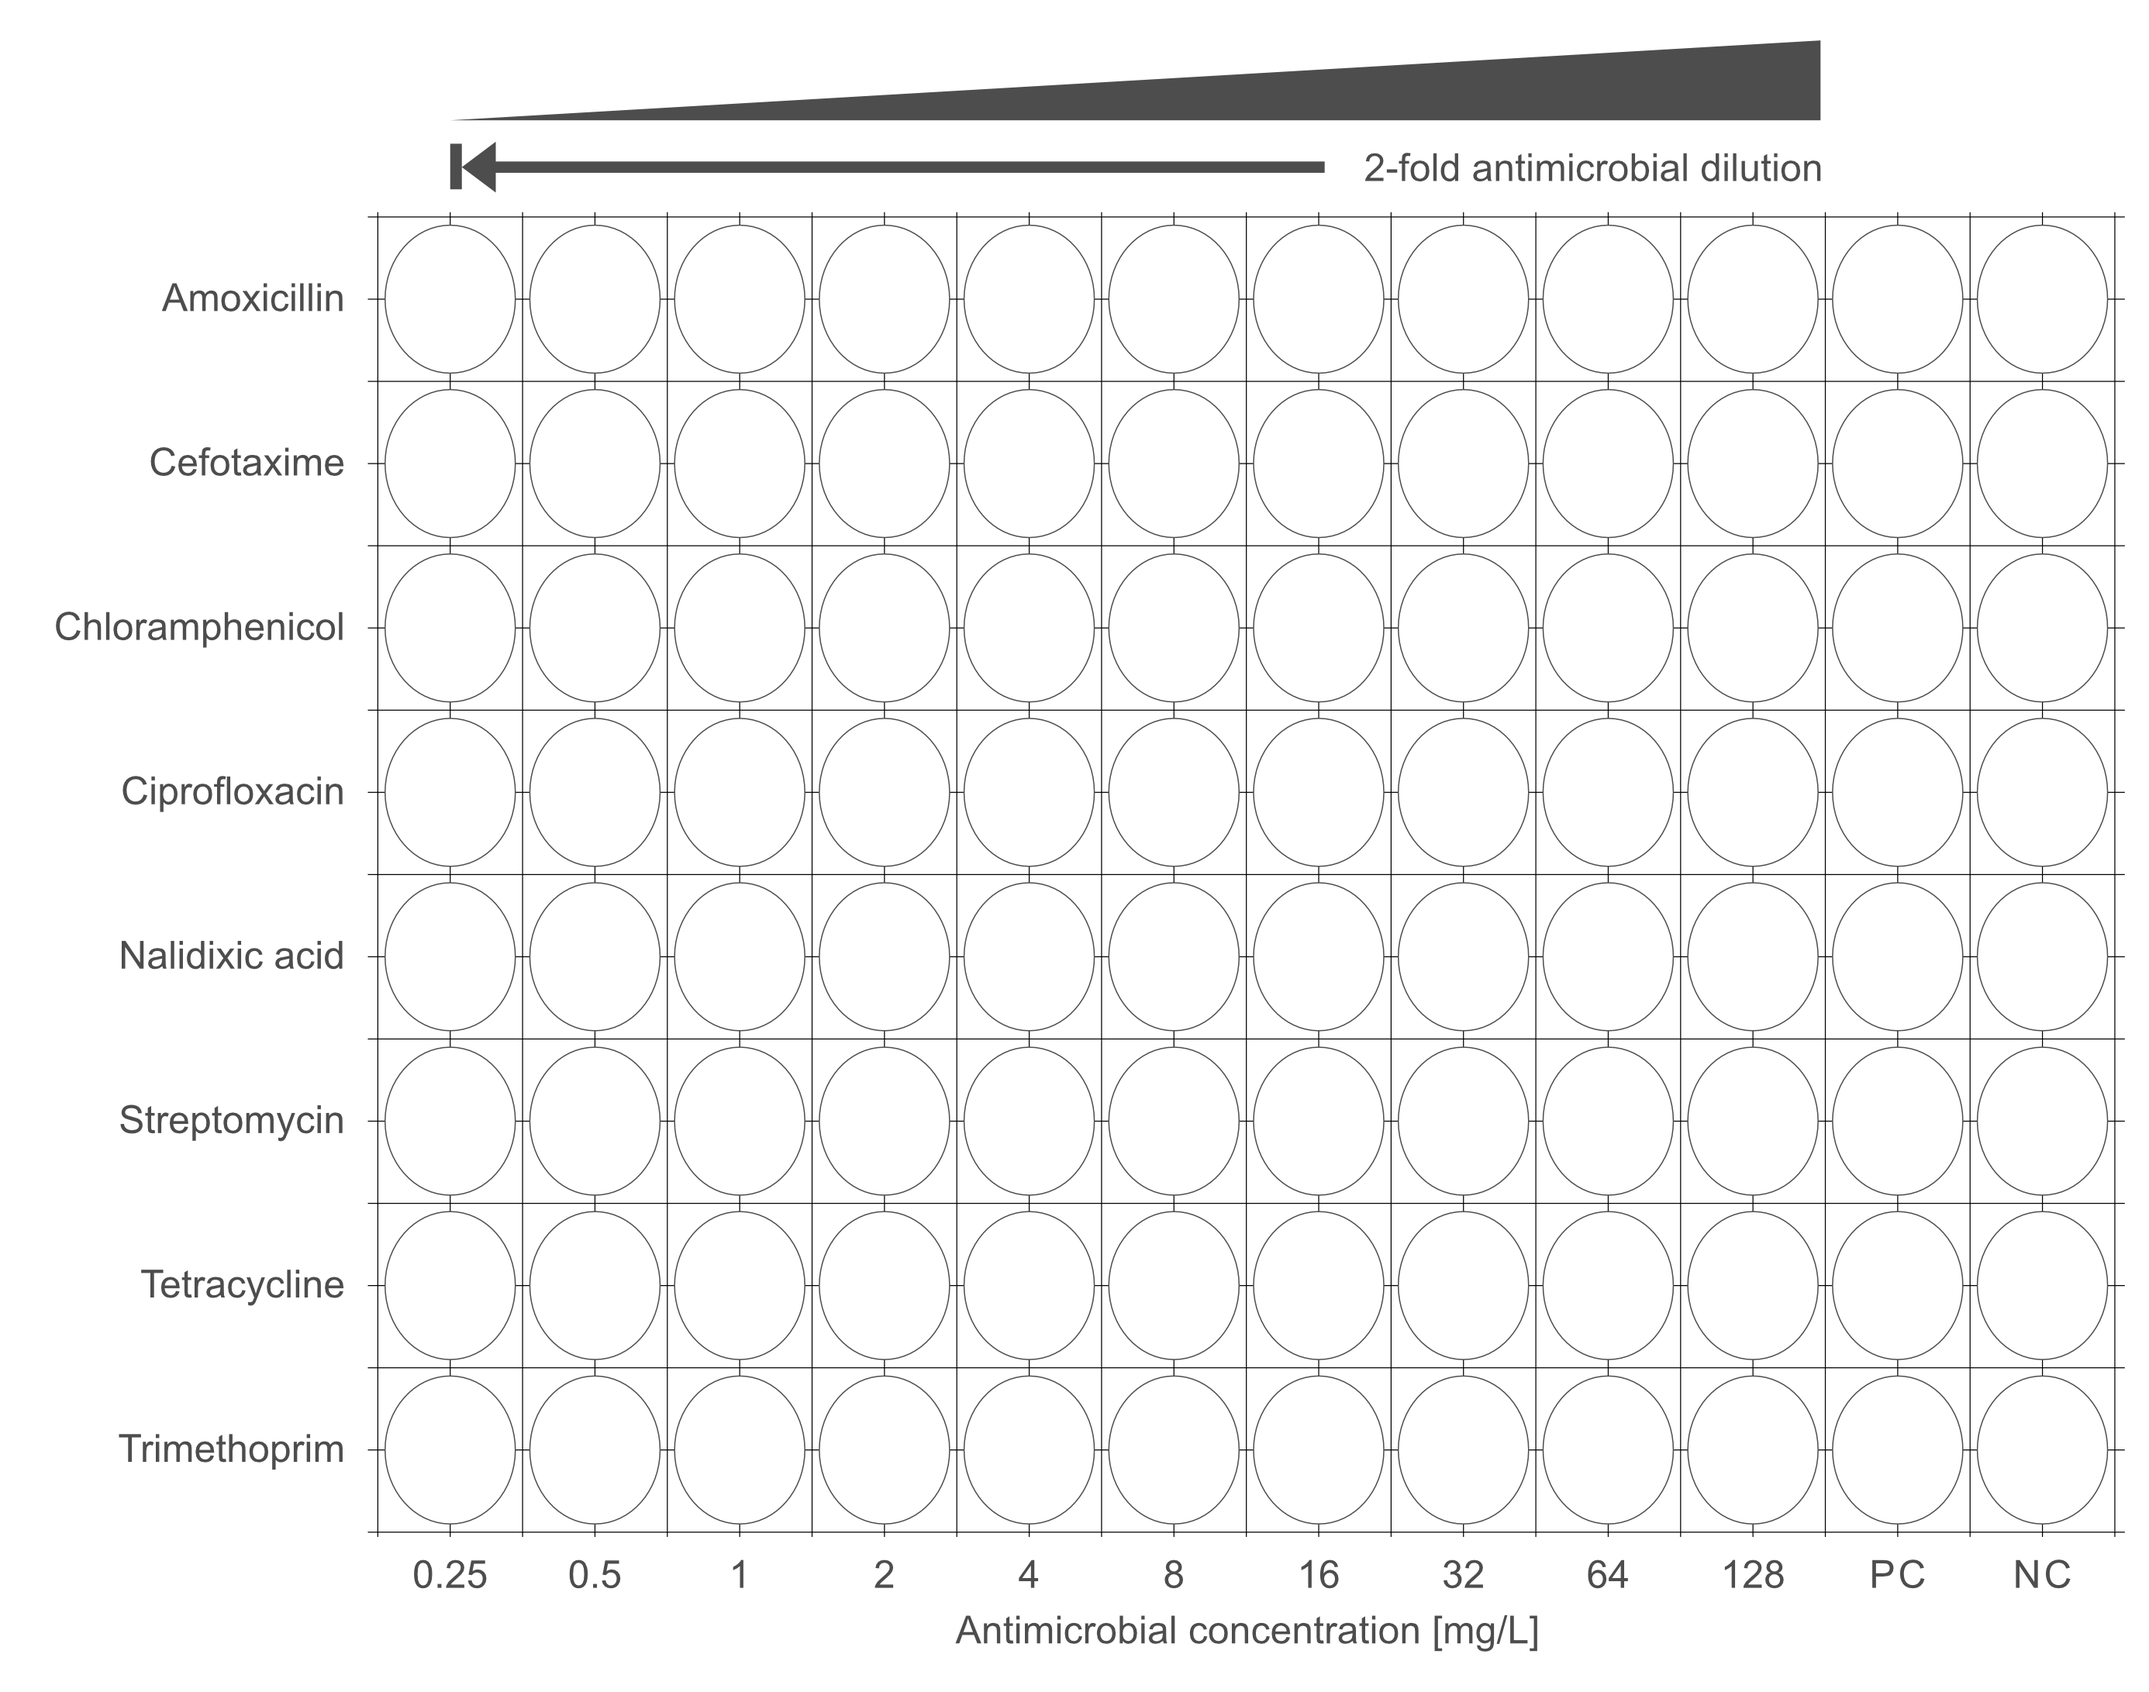
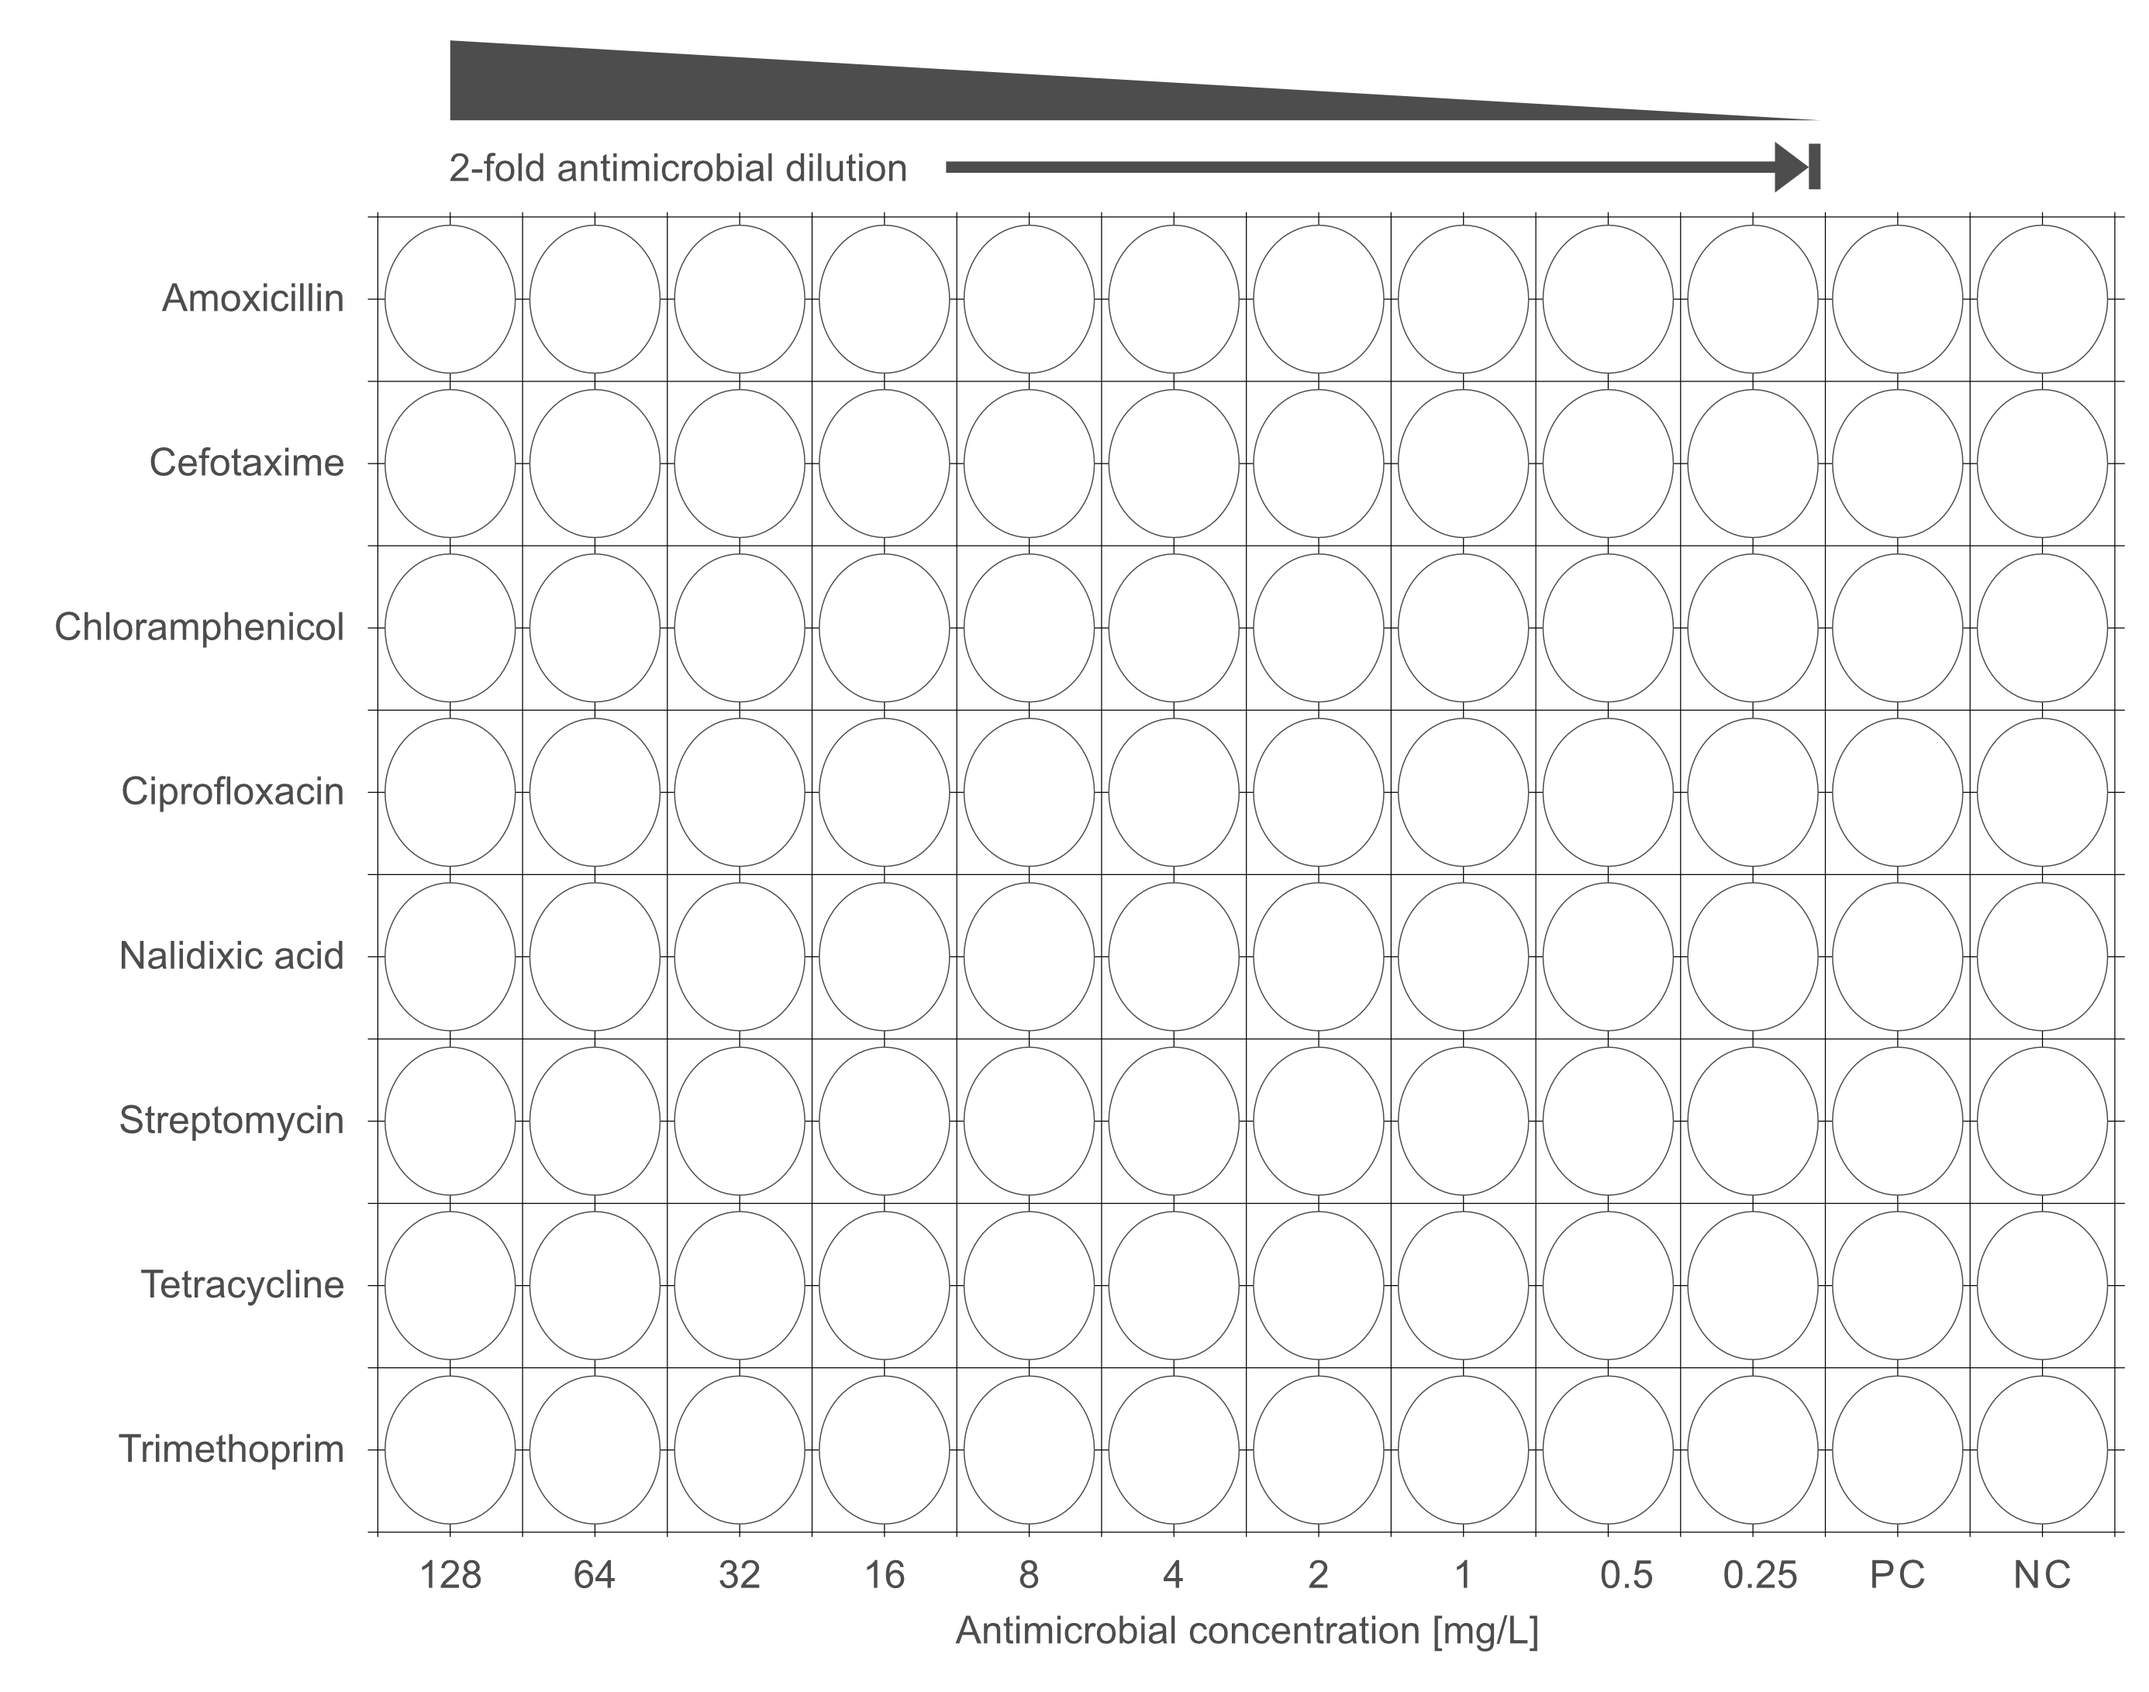
Revision of 96-well plate layout

diff --git a/README.md b/README.md
@@ -73,8 +73,8 @@ custom_row_labels <- c("Amoxicillin", "Cefotaxime", "Chloramphenicol",
                        "Ciprofloxacin", "Nalidixic acid", "Streptomycin",
                        "Tetracycline", "Trimethoprim")
 
-custom_col_labels <- c("0.25", "0.5", "1", "2", "4", "8",
-                       "16", "32", "64", "128", "PC", "NC")
+custom_col_labels <- c("128", "64", "32", "16", "8", "4",
+                       "2", "1", "0.5", "0.25", "PC", "NC")
 ```
 
 For plotting and further analysis, we convert our dataframe into a long format using pivot_longer().
